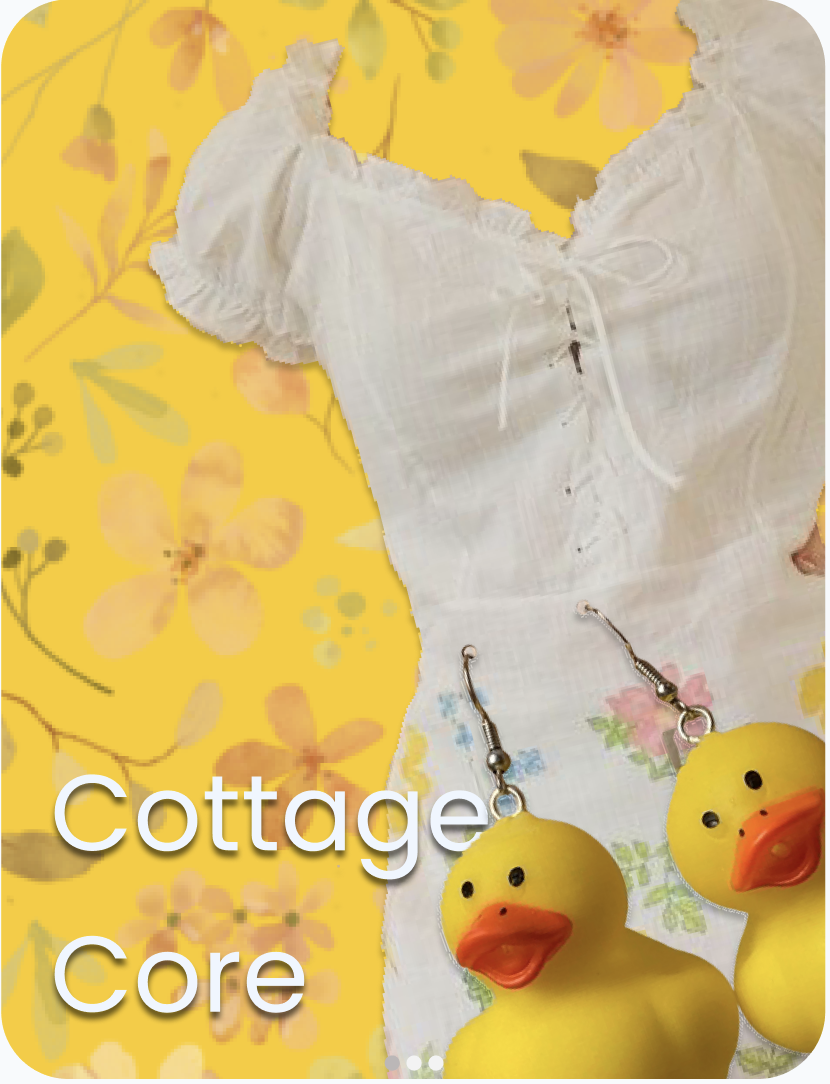
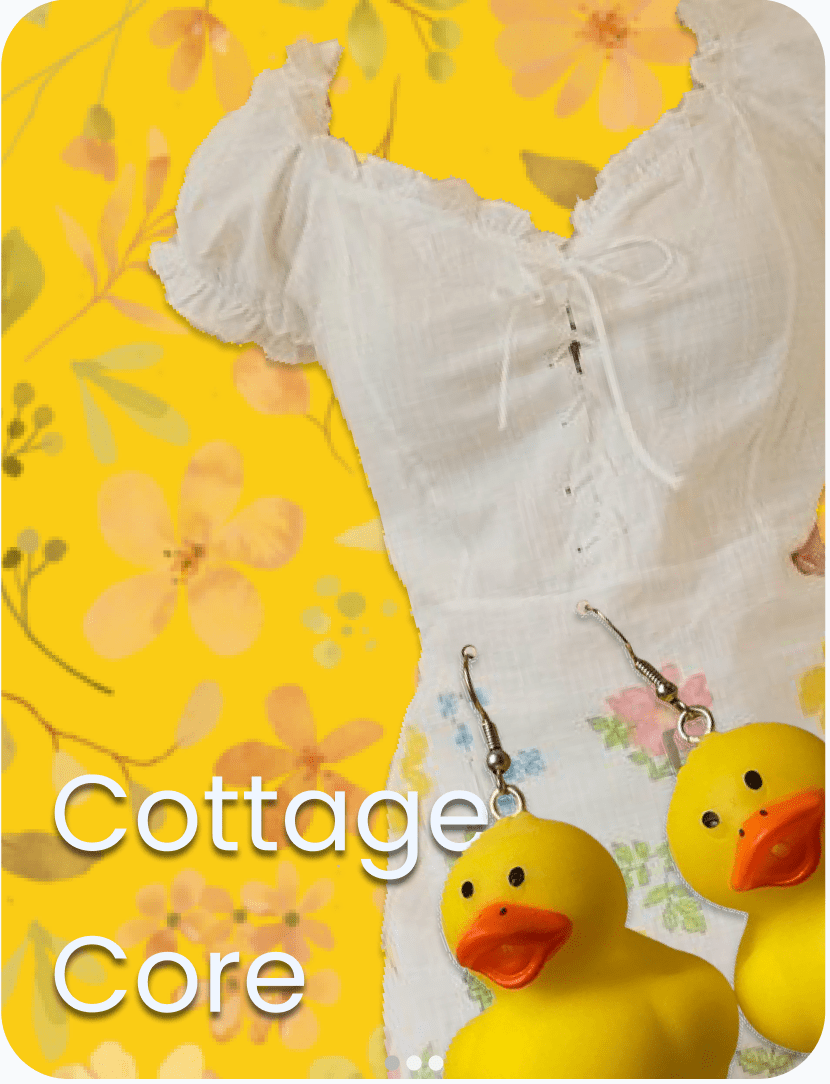
compress images

diff --git a/frontend/app/resources/page.tsx b/frontend/app/resources/page.tsx
@@ -3,6 +3,7 @@
 import React, { useEffect, useState } from "react";
 import { BrowserRouter as Router, Routes, Route, Link, useParams } from "react-router-dom";
 import articlesData from './content.json'; // Import the JSON data
+import ReactMarkdown from 'react-markdown';
 
 type Article = {
     id: number;
@@ -14,8 +15,9 @@ type Article = {
 const ArticleCard: React.FC<{ article: Article }> = ({ article }) => {
     return (
         <div className="max-w-lg rounded-lg overflow-hidden shadow-lg bg-white">
+
             <div className="h-60 bg-gray-300">
-                <img src={article.image} alt={article.title} className="w-full h-full object-cover" />
+                <img src={article.image} alt={article.title} className="w-full h-full object-cover rounded-lg" />
             </div>
             <div className="p-6">
                 <p className="text-gray-900 text-xl font-semibold mb-4">{article.title}</p>
@@ -36,8 +38,9 @@ const ResourcesPage: React.FC = () => {
     }, []);
 
     return (
-        <div className="min-h-screen bg-gray-50 py-6 flex flex-col justify-center">
-            <div className="grid grid-cols-1 sm:grid-cols-2 lg:grid-cols-2 gap-6">
+        <div className="flex flex-col items-center">
+            <h2 className="mx-20 mt-8 text-2xl font-semibold text-gray-800 mb-6">Resources</h2>
+            <div className="justify-center mx-20 grid grid-cols-1 sm:grid-cols-2 lg:grid-cols-2 gap-6">
                 {articles.length > 0 ? (
                     articles.map((article, index) => (
                         <ArticleCard key={index} article={article} />
@@ -55,6 +58,7 @@ const ArticleDetail: React.FC = () => {
     const { id } = useParams<{ id: string }>();
     const [article, setArticle] = useState<Article | undefined>();
 
+
     useEffect(() => {
         const foundArticle = articlesData.find((article) => article.id === parseInt(id!));
         setArticle(foundArticle);
@@ -64,12 +68,14 @@ const ArticleDetail: React.FC = () => {
         return <p className="text-center text-gray-500">Article not found...</p>;
     }
 
+
+
     return (
-        <div className="min-h-screen bg-gray-50 py-6 flex flex-col justify-center">
-            <div className="max-w-2xl mx-auto bg-white rounded-lg shadow-lg p-6">
+        <div className="min-h-screen py-6 flex flex-col justify-center">
+            <div className="max-w-2xl mx-auto bg-white rounded-lg p-4">
                 <h1 className="text-3xl font-semibold mb-4">{article.title}</h1>
-                <img src={article.image} alt={article.title} className="w-full h-80 object-cover mb-4" />
-                <div className="text-gray-700 text-lg leading-relaxed">{article.content}</div>
+                <img src={article.image} alt={article.title} className="w-full h-80 object-cover rounded-lg mb-4" />
+                <div className="text-gray-700 text-lg leading-relaxed"><ReactMarkdown>{article.content}</ReactMarkdown></div>
             </div>
         </div>
     );
